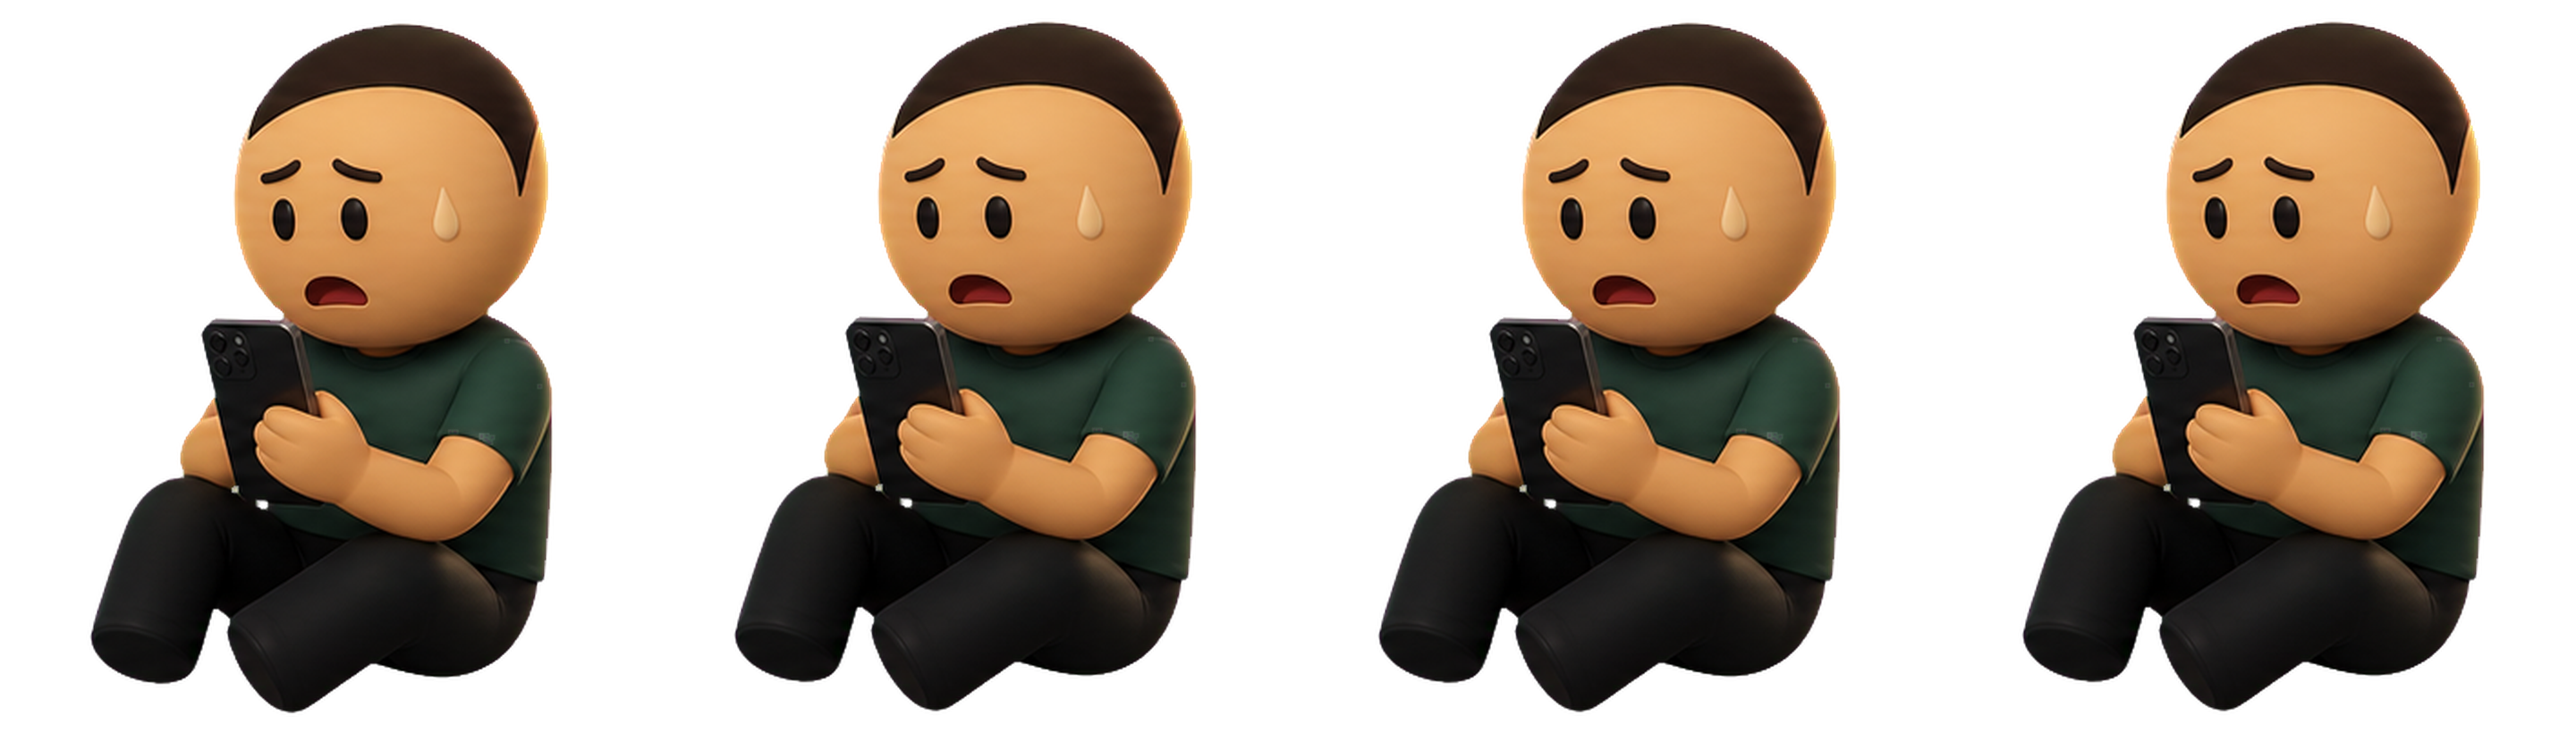
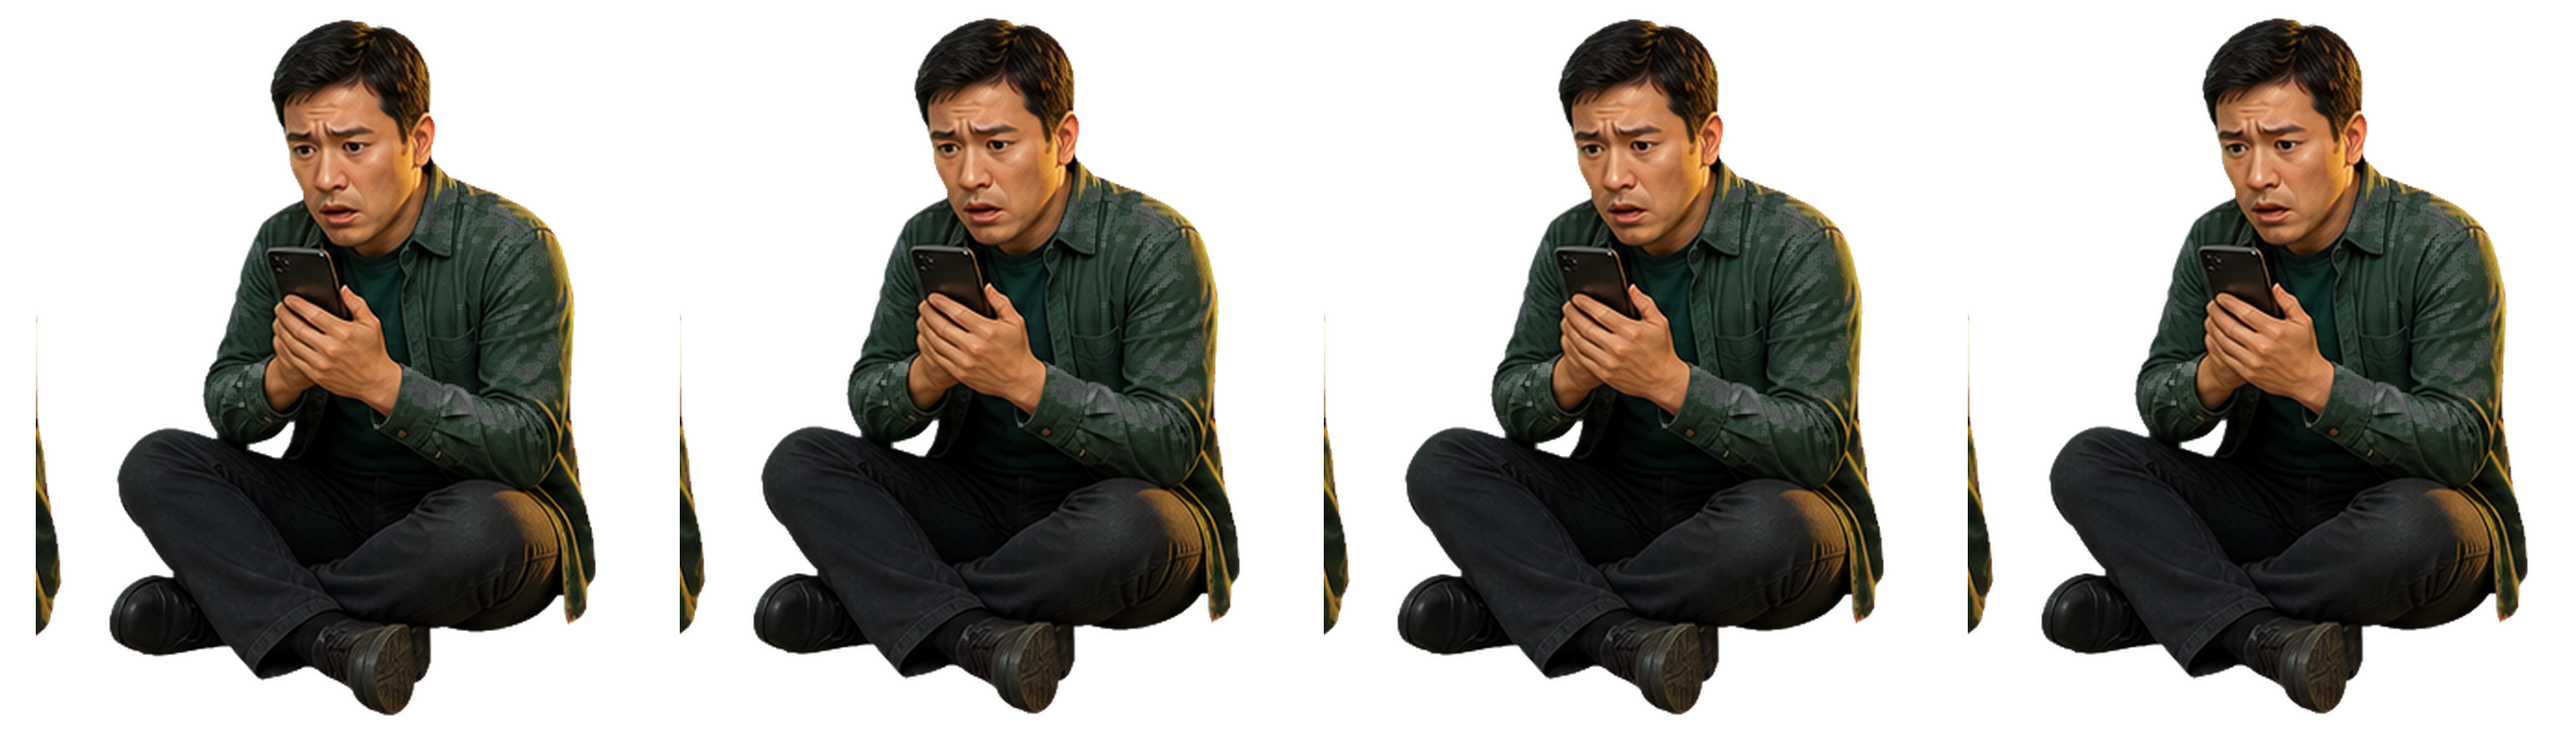
Fix rooftop clue escalation and grounded character

diff --git a/src/game/scenes/rooftopScene.ts b/src/game/scenes/rooftopScene.ts
@@ -5,7 +5,7 @@ import { getOfficeProgress } from "../systems/progressSystem";
 
 const worldWidth = 1280;
 const worldHeight = 720;
-const characterStates = ["progress-0", "progress-1", "progress-2", "progress-3", "progress-4", "progress-5"] as const;
+const characterStates = ["progress-0", "progress-1", "progress-2", "progress-3", "progress-4", "progress-5", "progress-6"] as const;
 type CharacterState = (typeof characterStates)[number];
 
 export interface RooftopSceneData {
@@ -212,6 +212,7 @@ export class RooftopScene extends Phaser.Scene {
     if (kind === "news") this.addNewsEffect(hotspot);
     if (kind === "alert") this.addAlertEffect(hotspot);
     if (kind === "sign") this.addSignEffect(hotspot);
+    if (kind === "contract") this.addContractEffect(hotspot);
     this.addMachinePulse();
   }
 
@@ -276,6 +277,18 @@ export class RooftopScene extends Phaser.Scene {
     this.tweens.add({ targets: underline, alpha: 0, duration: 180, delay: 600 });
   }
 
+  private addContractEffect(hotspot: SceneHotspot): void {
+    const rect = this.getHotspotRect(hotspot);
+    const crease = this.add.graphics().setDepth(52);
+    crease.lineStyle(5, 0xb9462c, 0.82);
+    crease.beginPath();
+    crease.moveTo(rect.x - rect.width * 0.22, rect.y - rect.height * 0.18);
+    crease.lineTo(rect.x + rect.width * 0.18, rect.y + rect.height * 0.16);
+    crease.strokePath();
+    this.tweens.add({ targets: crease, alpha: 0.22, duration: 110, yoyo: true, repeat: 4, ease: "Sine.inOut" });
+    this.tweens.add({ targets: crease, alpha: 0, duration: 180, delay: 620 });
+  }
+
   private addCoolingFurnace(): void {
     if (!this.textures.exists("rooftop-cooling-furnace")) return;
     const progress = getOfficeProgress(this.rooftopData.scene, this.rooftopData.foundHotspotIds);
@@ -297,15 +310,16 @@ export class RooftopScene extends Phaser.Scene {
   private addPlayableCharacter(): void {
     const state = this.getCharacterState();
     this.ensureCharacterAnimations();
-    const sprite = this.add.sprite(630, 438, `trader-${state}`, 0).setDepth(24);
+    this.add.ellipse(626, 576, 150, 28, 0x03100c, 0.26).setDepth(23);
+    const sprite = this.add.sprite(626, 532, `trader-${state}`, 0).setDepth(24);
     const progressIndex = this.getCharacterProgressIndex();
-    sprite.setScale(0.45 * (1 + progressIndex * 0.01));
-    sprite.setOrigin(0.5, 0.58);
+    sprite.setScale(0.275 * (1 + progressIndex * 0.005));
+    sprite.setOrigin(0.5, 0.82);
     sprite.play(`trader-${state}-anim`);
 
     if (progressIndex === 0) {
       this.tweens.add({ targets: sprite, y: sprite.y + 4, alpha: 0.92, duration: 980, yoyo: true, repeat: -1, ease: "Sine.inOut" });
-    } else if (progressIndex < 5) {
+    } else if (progressIndex < characterStates.length - 1) {
       this.tweens.add({ targets: sprite, y: sprite.y - 3 - progressIndex, duration: 820, yoyo: true, repeat: -1, ease: "Sine.inOut" });
     } else {
       this.tweens.add({ targets: sprite, y: sprite.y - 12, scaleX: sprite.scaleX * 1.018, scaleY: sprite.scaleY * 1.018, duration: 560, yoyo: true, repeat: 1, ease: "Back.out" });
@@ -331,7 +345,7 @@ export class RooftopScene extends Phaser.Scene {
 
   private getCharacterProgressIndex(): number {
     const progress = getOfficeProgress(this.rooftopData.scene, this.rooftopData.foundHotspotIds);
-    return Math.min(progress.foundCount, 5);
+    return Math.min(progress.foundCount, characterStates.length - 1);
   }
 
   private ensureCharacterAnimations(): void {
@@ -342,7 +356,7 @@ export class RooftopScene extends Phaser.Scene {
       this.anims.create({
         key,
         frames: this.anims.generateFrameNumbers(`trader-${state}`, { start: 0, end: 3 }),
-        frameRate: progressIndex === 0 ? 3 : progressIndex === 5 ? 6 : 5,
+        frameRate: progressIndex === 0 ? 3 : progressIndex === characterStates.length - 1 ? 6 : 5,
         repeat: -1,
         yoyo: true
       });
@@ -380,11 +394,12 @@ export class RooftopScene extends Phaser.Scene {
   private getClueDepth(hotspot: SceneHotspot): number {
     if (hotspot.id === "h5") return 18;
     if (hotspot.id === "h1") return 28;
+    if (hotspot.id === "h6") return 25;
     return 26;
   }
 
   private getClueAngle(hotspot: SceneHotspot): number {
-    const angles: Record<string, number> = { h1: -7, h2: 2, h3: 4, h4: -8, h5: 1 };
+    const angles: Record<string, number> = { h1: -7, h2: 2, h3: 4, h4: -8, h5: 1, h6: -4 };
     return angles[hotspot.id] ?? 0;
   }
 
@@ -394,7 +409,8 @@ export class RooftopScene extends Phaser.Scene {
       h2: { width: 150, height: 24, offsetX: 0, offsetY: 54, angle: 3, alpha: 0.22, depth: 24 },
       h3: { width: 150, height: 20, offsetX: 8, offsetY: 45, angle: 4, alpha: 0.18, depth: 24 },
       h4: { width: 84, height: 20, offsetX: 4, offsetY: 72, angle: -8, alpha: 0.26, depth: 24 },
-      h5: { width: 186, height: 18, offsetX: 0, offsetY: 44, angle: 1, alpha: 0.16, depth: 17 }
+      h5: { width: 186, height: 18, offsetX: 0, offsetY: 44, angle: 1, alpha: 0.16, depth: 17 },
+      h6: { width: 92, height: 18, offsetX: -6, offsetY: 38, angle: -4, alpha: 0.2, depth: 24 }
     };
     return shadows[hotspot.id] ?? { width: 120, height: 22, offsetX: 0, offsetY: 42, angle: 0, alpha: 0.22, depth: 24 };
   }

diff --git a/src/core/config.ts b/src/core/config.ts
@@ -145,6 +145,14 @@ export const gameConfig: GameConfig = {
       emotion: "stubborn",
       theme: "gold",
       counterText: "嘴硬可以，别把嘴硬当风险管理。"
+    },
+    leverage_contract: {
+      id: "leverage_contract",
+      title: "杠杆合同边角",
+      detail: "藏在管道旁的纸角，说明嘴上长期配置，手上已经开始借力。",
+      emotion: "breakdown",
+      theme: "gold",
+      counterText: "借来的勇气，最先收利息。"
     }
   },
   scenes: [
@@ -181,11 +189,12 @@ export const gameConfig: GameConfig = {
       machineImage: "/assets/game/rooftop/machines/cooling-furnace.png",
       completeText: "家庭资产配置已冷冻。嘴硬可以，别拿嘴硬当策略。",
       hotspots: [
-        { id: "h1", evidenceId: "gold_receipt", x: 24, y: 72, hitX: 24, hitY: 72, hitWidth: 15, hitHeight: 13, radius: 7, label: "金店小票", found: false, image: "/assets/game/rooftop/clues/folded-receipt.png", imageWidth: 12, anchorX: 50, anchorY: 50, hitScale: 1, revealText: "小票垫不住追高的手", animationKind: "receipt" },
-        { id: "h2", evidenceId: "hedge_group", x: 42, y: 67, hitX: 42, hitY: 67, hitWidth: 12, hitHeight: 16, radius: 8, label: "稳健避险交流群", found: false, image: "/assets/game/rooftop/clues/group-chat.png", imageWidth: 9, anchorX: 50, anchorY: 50, hitScale: 1, revealText: "每三分钟问一次，还叫长期", animationKind: "chat" },
-        { id: "h3", evidenceId: "risk_headline", x: 68, y: 72, hitX: 68, hitY: 72, hitWidth: 13, hitHeight: 11, radius: 8, label: "避险快讯截图", found: false, image: "/assets/game/rooftop/clues/risk-news.png", imageWidth: 11, anchorX: 50, anchorY: 50, hitScale: 1, revealText: "没有来源的标题，最会替你下单", animationKind: "news" },
-        { id: "h4", evidenceId: "price_alarm", x: 59, y: 67, hitX: 59, hitY: 67, hitWidth: 8, hitHeight: 18, radius: 7, label: "跌幅提醒手机", found: false, image: "/assets/game/rooftop/clues/price-alert.png", imageWidth: 6, anchorX: 50, anchorY: 50, hitScale: 1, revealText: "长期资产正在被五分钟一刷审问", animationKind: "alert" },
-        { id: "h5", evidenceId: "rooftop_warning", x: 82, y: 58, hitX: 82, hitY: 58, hitWidth: 16, hitHeight: 12, radius: 8, label: "敏感行情告示", found: false, image: "/assets/game/rooftop/clues/warning-sign.png", imageWidth: 14, anchorX: 50, anchorY: 50, hitScale: 1, revealText: "天台门口已经替你写了风险提示", animationKind: "sign" }
+        { id: "h1", evidenceId: "gold_receipt", x: 24, y: 72, hitX: 24, hitY: 72, hitWidth: 10, hitHeight: 10, radius: 7, label: "金店小票", found: false, image: "/assets/game/rooftop/clues/folded-receipt.png", imageWidth: 7.2, anchorX: 50, anchorY: 50, hitScale: 1, revealText: "小票垫不住追高的手", animationKind: "receipt" },
+        { id: "h2", evidenceId: "hedge_group", x: 41, y: 72, hitX: 41, hitY: 72, hitWidth: 8.5, hitHeight: 11, radius: 8, label: "稳健避险交流群", found: false, image: "/assets/game/rooftop/clues/group-chat.png", imageWidth: 5.4, anchorX: 50, anchorY: 50, hitScale: 1, revealText: "每三分钟问一次，还叫长期", animationKind: "chat" },
+        { id: "h3", evidenceId: "risk_headline", x: 69, y: 73, hitX: 69, hitY: 73, hitWidth: 8.5, hitHeight: 8, radius: 8, label: "避险快讯截图", found: false, image: "/assets/game/rooftop/clues/risk-news.png", imageWidth: 6.4, anchorX: 50, anchorY: 50, hitScale: 1, revealText: "没有来源的标题，最会替你下单", animationKind: "news" },
+        { id: "h4", evidenceId: "price_alarm", x: 58.4, y: 72.5, hitX: 58.4, hitY: 72.5, hitWidth: 6.4, hitHeight: 12, radius: 7, label: "跌幅提醒手机", found: false, image: "/assets/game/rooftop/clues/price-alert.png", imageWidth: 4.1, anchorX: 50, anchorY: 50, hitScale: 1, revealText: "长期资产正在被五分钟一刷审问", animationKind: "alert" },
+        { id: "h5", evidenceId: "rooftop_warning", x: 30.8, y: 39.8, hitX: 30.8, hitY: 39.8, hitWidth: 9, hitHeight: 8, radius: 8, label: "敏感行情告示", found: false, image: "/assets/game/rooftop/clues/warning-sign.png", imageWidth: 7.2, anchorX: 50, anchorY: 50, hitScale: 1, revealText: "天台门口已经替你写了风险提示", animationKind: "sign" },
+        { id: "h6", evidenceId: "leverage_contract", x: 17.8, y: 59.5, hitX: 17.8, hitY: 59.5, hitWidth: 8.5, hitHeight: 10, radius: 7, label: "杠杆合同边角", found: false, image: "/assets/game/rooftop/clues/leverage-paper.png", imageWidth: 6.4, anchorX: 50, anchorY: 50, hitScale: 1, revealText: "借来的底气已经躲到管道边", animationKind: "contract" }
       ]
     },
     {

diff --git a/src/game/preloadScene.ts b/src/game/preloadScene.ts
@@ -14,13 +14,16 @@ export class PreloadScene extends Phaser.Scene {
       ["h2", "/assets/game/rooftop/clues/group-chat.png"],
       ["h3", "/assets/game/rooftop/clues/risk-news.png"],
       ["h4", "/assets/game/rooftop/clues/price-alert.png"],
-      ["h5", "/assets/game/rooftop/clues/warning-sign.png"]
+      ["h5", "/assets/game/rooftop/clues/warning-sign.png"],
+      ["h6", "/assets/game/rooftop/clues/leverage-paper.png"]
     ].forEach(([id, path]) => this.load.image(`rooftop-clue-${id}`, path));
     for (const state of ["progress-0", "progress-1", "progress-2", "progress-3", "progress-4", "progress-5"]) {
       this.load.spritesheet(`zhou-${state}`, `/assets/game/office/characters/zhou-${state}-sheet.png`, {
         frameWidth: 720,
         frameHeight: 820
       });
+    }
+    for (const state of ["progress-0", "progress-1", "progress-2", "progress-3", "progress-4", "progress-5", "progress-6"]) {
       this.load.spritesheet(`trader-${state}`, `/assets/game/rooftop/characters/trader-${state}-sheet.png`, {
         frameWidth: 720,
         frameHeight: 820

diff --git a/src/game/systems/audioSystem.ts b/src/game/systems/audioSystem.ts
@@ -1,4 +1,4 @@
-export type HitSoundKind = "kline" | "goldLine" | "chat" | "paper" | "scratch" | "receipt" | "news" | "alert" | "sign" | "miss" | "complete";
+export type HitSoundKind = "kline" | "goldLine" | "chat" | "paper" | "scratch" | "receipt" | "news" | "alert" | "sign" | "contract" | "miss" | "complete";
 
 let audioContext: AudioContext | undefined;
 
@@ -58,7 +58,7 @@ function getProfile(kind: HitSoundKind) {
   if (kind === "news" || kind === "sign") {
     return { type: "sawtooth" as OscillatorType, startFrequency: 310, endFrequency: 180, filterFrequency: 860, volume: 0.045, duration: 0.13 };
   }
-  if (kind === "paper" || kind === "scratch" || kind === "receipt") {
+  if (kind === "paper" || kind === "scratch" || kind === "receipt" || kind === "contract") {
     return { type: "triangle" as OscillatorType, startFrequency: 280, endFrequency: 150, filterFrequency: 1050, volume: 0.045, duration: 0.14 };
   }
   return { type: "sawtooth" as OscillatorType, startFrequency: 240, endFrequency: 130, filterFrequency: 760, volume: 0.045, duration: 0.13 };

diff --git a/src/main.ts b/src/main.ts
@@ -382,14 +382,14 @@ function getSceneMeta(sceneId: string): {
     return {
       place: "字节跳桶公司天台",
       time: "周三 18:46",
-      goal: "找齐 5 个接盘证据",
-      goalDetail: "抓出 5 个把追高伪装成理性的嘴硬证据。",
+      goal: "找齐 6 个接盘证据",
+      goalDetail: "抓出 6 个把追高伪装成理性的嘴硬证据。",
       completeGoal: "接盘已冷却",
       startAction: "开始冷却",
       continueAction: "继续冷却",
-      startToast: "抓出 5 个正在给追高加温的嘴硬证据。",
+      startToast: "抓出 6 个正在给追高加温的嘴硬证据。",
       introNarrative: "把追高、快讯和嘴硬从天台风里拽出来。",
-      completeNarrative: "天台终于降温，快讯、群聊和价格提醒都被贴上标签。"
+      completeNarrative: "天台终于降温，快讯、群聊、价格提醒和杠杆纸角都被贴上标签。"
     };
   }
 

diff --git a/src/core/types.ts b/src/core/types.ts
@@ -30,7 +30,7 @@ export interface SceneHotspot {
   anchorY?: number;
   hitScale?: number;
   revealText?: string;
-  animationKind?: "kline" | "goldLine" | "chat" | "paper" | "scratch" | "receipt" | "news" | "alert" | "sign";
+  animationKind?: "kline" | "goldLine" | "chat" | "paper" | "scratch" | "receipt" | "news" | "alert" | "sign" | "contract";
 }
 
 export interface InvestigationScene {

diff --git a/TASK_STATE.md b/TASK_STATE.md
@@ -70,15 +70,20 @@ The second level is now wired as a playable Phaser flow and has been rebuilt wit
 - Done: added second-level gameplay config, evidence entries, local state switching, Phaser scene loading, hotspot access buttons, click feedback, audio profiles, and Playwright coverage.
 - Done: replaced the old rooftop background with a clean 16:9 semi-realistic 3D/clay-render bitmap background plate.
 - Done: replaced all second-level foreground clue, machine, and character assets with unified bitmap assets generated from the same art direction.
-- Done: preserved the `progress-0` through `progress-5` trader spritesheet contract with six distinct body-language/expression states.
+- Done: increased the second level to 6 clues, so it now escalates after the 5-clue office level.
+- Done: preserved the `progress-0` through `progress-6` trader spritesheet contract with seven distinct body-language/expression states.
+- Done: replaced the rounded toy-like trader with an adult human-proportioned rooftop character.
+- Done: moved the trader back onto the rooftop floor with a smaller scale and local contact shadow so he no longer reads as floating on the front wall.
 - Done: removed always-on floating clue tweens; clue objects now stay physically placed and only animate through local hit feedback.
-- Done: added local contact shadows for all five rooftop clues and the cooling furnace.
+- Done: added local contact shadows for all rooftop clues and the cooling furnace.
 - Done: removed the old `scripts/generate-rooftop-assets.mjs` SVG generation path and obsolete SVG source directories so final assets are not overwritten by placeholder art.
 - Done: saved the generated source plates under `public/assets/game/rooftop/source/`.
 - Done: retuned second-level hotspot positions and object sizes against the final bitmap assets.
 - QA finding resolved: the previous script-generated flat/sticker mismatch has been replaced by unified bitmap scene art.
 - QA finding resolved: the quick-news clipping now sits on the rooftop floor instead of floating.
 - QA finding resolved: green chroma-key fringe was removed from transparent character and prop assets.
+- QA finding resolved: second-level clue count now increases from 5 to 6, with a new `杠杆合同边角` clue.
+- QA finding resolved: the trader no longer uses toy/mascot proportions.
 - Remaining QA risk: final user visual approval is still needed, but the runtime no longer relies on placeholder SVG/vector-generated rooftop assets.
 
 Second-level optimization plan:
@@ -121,3 +126,4 @@ Second-level optimization plan:
 - After adding the playable second-level rooftop loop, `npm test`, `npm run build`, and `npm run test:e2e` passed on 2026-05-15; Playwright screenshots were captured at `artifacts/rooftop-progress-0.png` through `artifacts/rooftop-progress-5.png` and `artifacts/rooftop-mobile-complete.png`.
 - After the second-level art-repair pass, `npm test`, `npm run build`, and `npm run test:e2e` passed on 2026-05-18; Playwright screenshots were captured at `artifacts/rooftop-v4-progress-0.png`, `artifacts/rooftop-v3-progress-3.png`, `artifacts/rooftop-v3-progress-5.png`, and `artifacts/rooftop-v2-mobile-complete.png`.
 - After replacing the second-level placeholder art with final-direction bitmap assets and removing the SVG generation path, `npm test`, `npm run build`, and `npm run test:e2e` passed on 2026-05-18; Playwright screenshots were captured at `artifacts/rooftop-final-pass2-progress-0.png`, `artifacts/rooftop-final-pass2-progress-3.png`, `artifacts/rooftop-final-pass2-progress-5.png`, and `artifacts/rooftop-final-pass2-mobile-complete.png`.
+- After increasing the rooftop level to 6 clues and replacing the trader with an adult human-proportioned 7-state character, `npm test`, `npm run build`, and `npm run test:e2e` passed on 2026-05-18; Playwright screenshots were captured at `artifacts/rooftop-incremental-human-grounded-progress-0.png`, `artifacts/rooftop-incremental-human-grounded-progress-6.png`, and `artifacts/rooftop-incremental-human-grounded-mobile-complete.png`.
